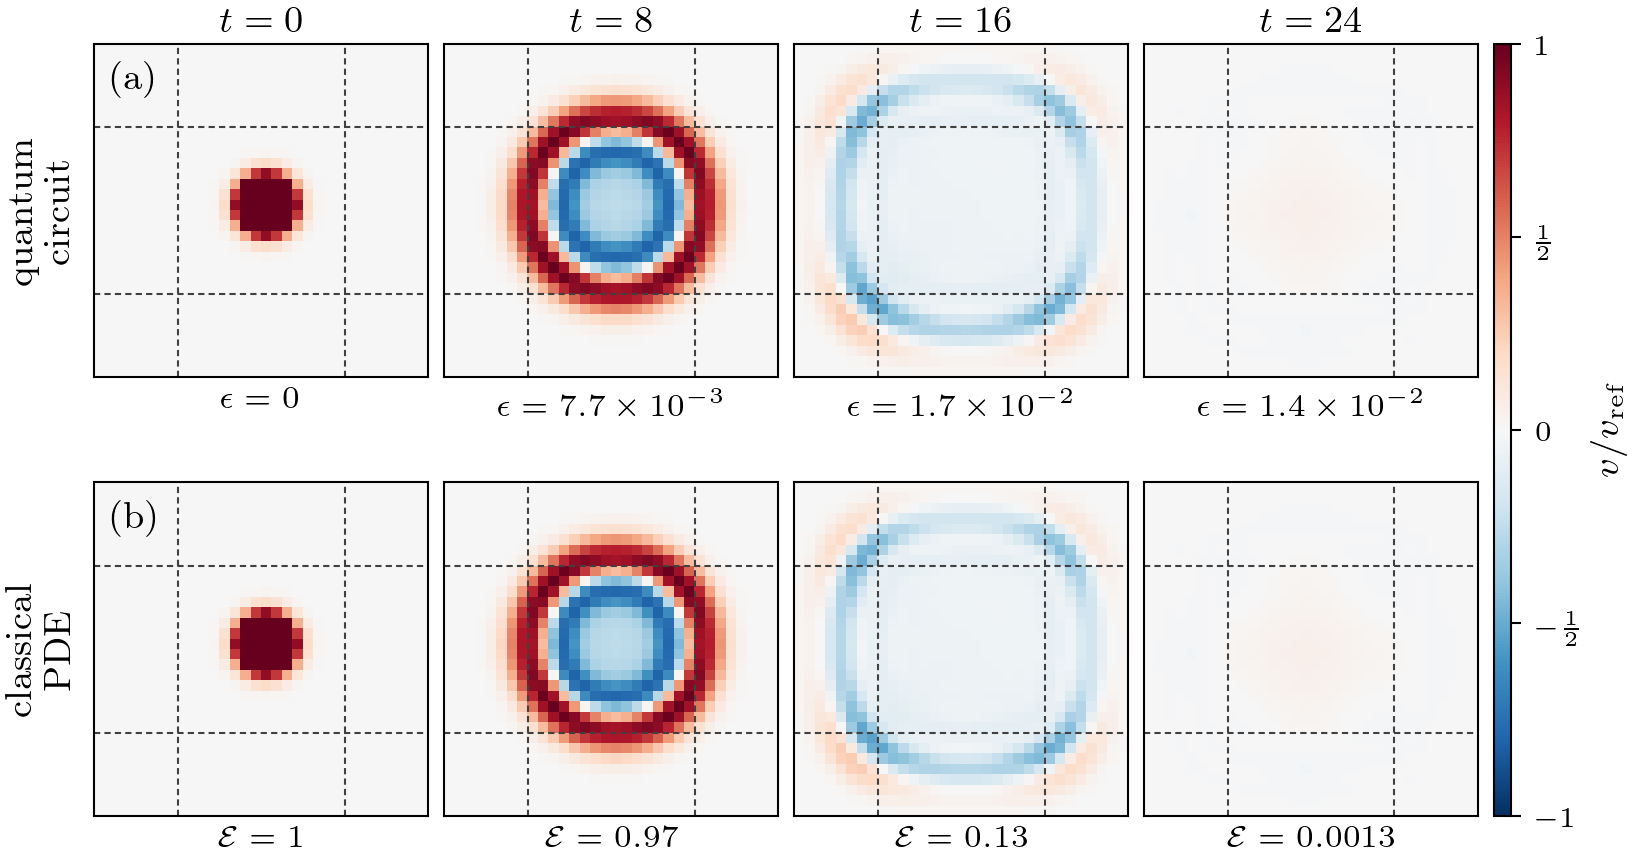
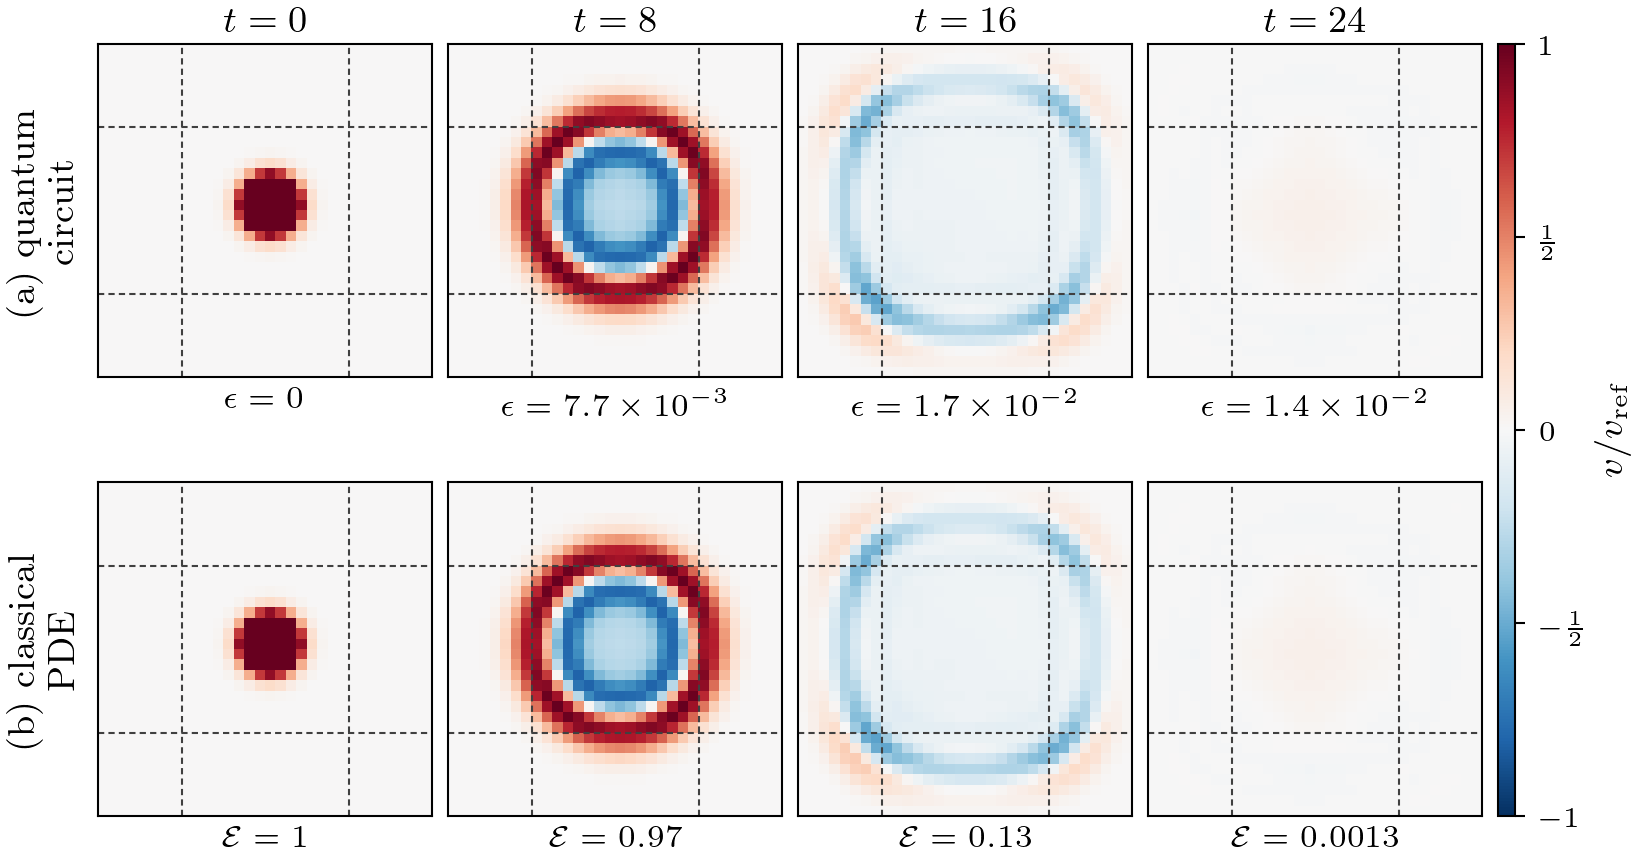
sponge: panel letters in the row labels

diff --git a/sponge/paper/experiments/elastic_fig_gatedemo.py b/sponge/paper/experiments/elastic_fig_gatedemo.py
@@ -89,11 +89,9 @@ def main():
     notes = [[r"$\epsilon=0$"] + [rf"$\epsilon={fs.sci(runs[(GRID, T)]['rel_error'])}$" for T in TS],
              [r"$\mathcal{E}=1$"] + [rf"$\mathcal{{E}}={runs[(GRID, T)]['energy_ratio_ref']:.2g}$" for T in TS]]
     titles = [r"$t=0$"] + [rf"$t={T:g}$" for T in TS]
-    fig, axs = fs.wavefield_grid([top, bot], ["quantum\ncircuit", "classical\nPDE"], titles,
+    fig, axs = fs.wavefield_grid([top, bot], ["(a) quantum\ncircuit", "(b) classical\nPDE"], titles,
                                  vmax, (NPML - 0.5, N - NPML - 0.5), notes=notes,
                                  cbar_label=r"$\tilde v_x/\tilde v_{\mathrm{ref}}$")
-    fs.panel_label(axs[0][0], "(a)", x=0.05, y=0.95)
-    fs.panel_label(axs[1][0], "(b)", x=0.05, y=0.95)
     fs.save(fig, 'elastic_fig_gatedemo_32' if '--32' in sys.argv else 'elastic_fig_gatedemo')
 
 if __name__ == '__main__':

diff --git a/sponge/paper/experiments/acoustic_fig_gate32.py b/sponge/paper/experiments/acoustic_fig_gate32.py
@@ -27,9 +27,7 @@ bot = [v0] + [f for f in d["fields_ref"]]
 notes = [[r"$\epsilon=0$"] + [rf"$\epsilon={fs.sci(e)}$" for e in d["errors"]],
          [r"$\mathcal{E}=1$"] + [rf"$\mathcal{{E}}={E:.2g}$" for E in d["energies"]]]
 titles = [r"$t=0$"] + [rf"$t={T:g}$" for T in times]
-fig, axs = fs.wavefield_grid([top, bot], ["quantum\ncircuit", "classical\nPDE"], titles,
+fig, axs = fs.wavefield_grid([top, bot], ["(a) quantum\ncircuit", "(b) classical\nPDE"], titles,
                              vmax, (NPML - 0.5, N - 0.5 - NPML), notes=notes,
                              cbar_label=r"$v/v_{\mathrm{ref}}$")
-fs.panel_label(axs[0][0], "(a)", x=0.05, y=0.95)
-fs.panel_label(axs[1][0], "(b)", x=0.05, y=0.95)
 fs.save(fig, "fig6_2d_gate_level_32x32")
